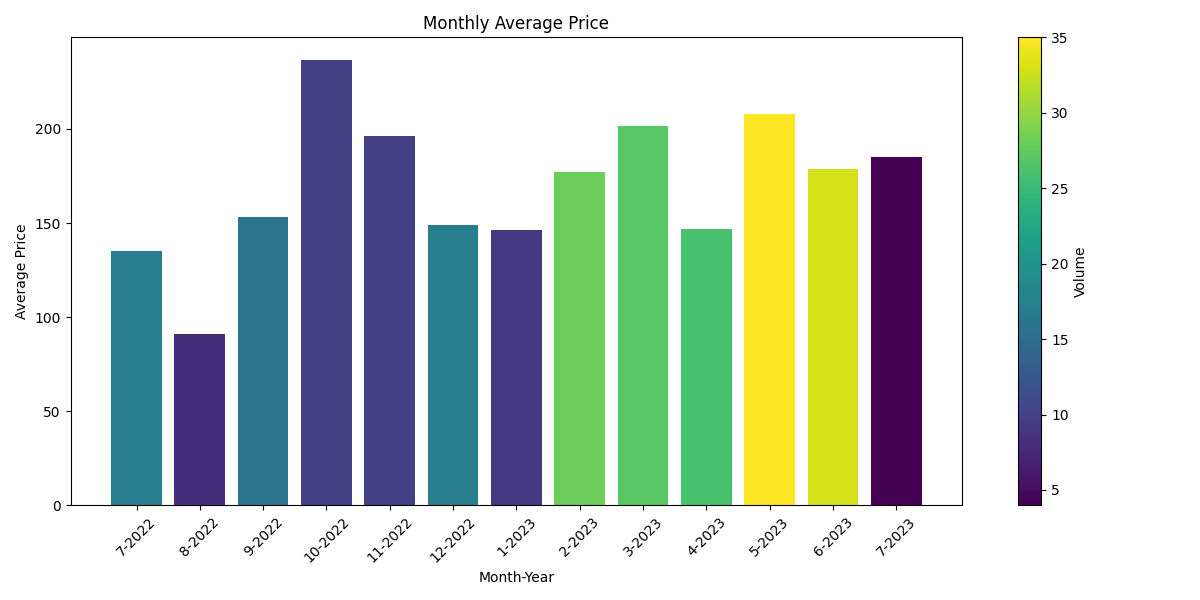
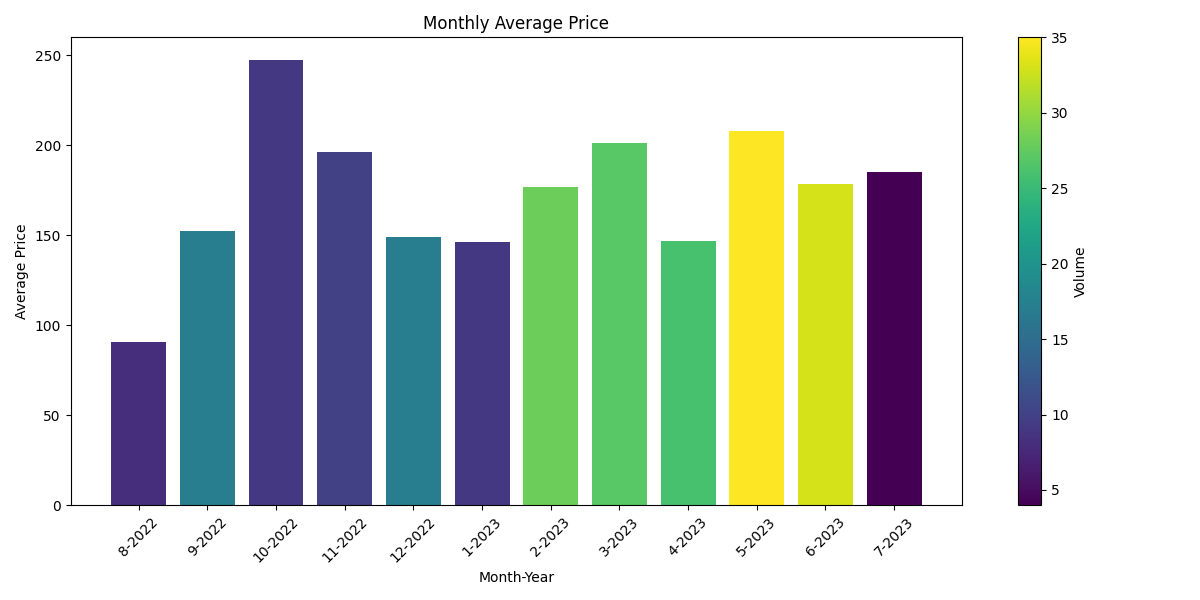
adding

diff --git a/main.py b/main.py
@@ -76,6 +76,7 @@ from keras.applications.inception_v3 import InceptionV3, preprocess_input, decod
 from keras.applications.resnet import ResNet50, preprocess_input, decode_predictions
 from keras.models import Model
 from keras.layers import GlobalAveragePooling2D, Dense, Input
+from dateutil.relativedelta import relativedelta
 from keras.optimizers import Adam
 from sklearn.preprocessing import LabelEncoder
 import matplotlib.cm as cm
@@ -554,10 +555,16 @@ async def plot_price_vs_upload_date(ctx, df, date):
             await ctx.send(file=image)
         plt.close()
     elif date == 'months' and any(df['Original Date'].str.contains('month')):
-        df_monthly_avg = df.groupby([df["Relative Date"].dt.year, df["Relative Date"].dt.month])["Original Price"].mean()
+        now = datetime.now()
+        current_month = now.month
+        current_year = now.year
+        start_date = now - relativedelta(months=11)
+        start_date = start_date.replace(day=1)
+        end_date = now
+        filtered_df = df[(df['Relative Date'] >= start_date) & (df['Relative Date'] <= end_date)]
+        df_monthly_avg = filtered_df.groupby([filtered_df["Relative Date"].dt.year, filtered_df["Relative Date"].dt.month])["Original Price"].mean()
         df_monthly_avg = df_monthly_avg.sort_index(ascending=True)
-        df_monthly_volume = df.groupby([df["Relative Date"].dt.year, df["Relative Date"].dt.month])["Title"].count()
-        df_monthly_volume = df_monthly_volume.sort_index(ascending=True)
+        df_monthly_volume = filtered_df.groupby([filtered_df["Relative Date"].dt.year, filtered_df["Relative Date"].dt.month])["Title"].count()
         min_volume = df_monthly_volume.min()
         max_volume = df_monthly_volume.max()
         normalized_volume = (df_monthly_volume - min_volume) / (max_volume - min_volume)
